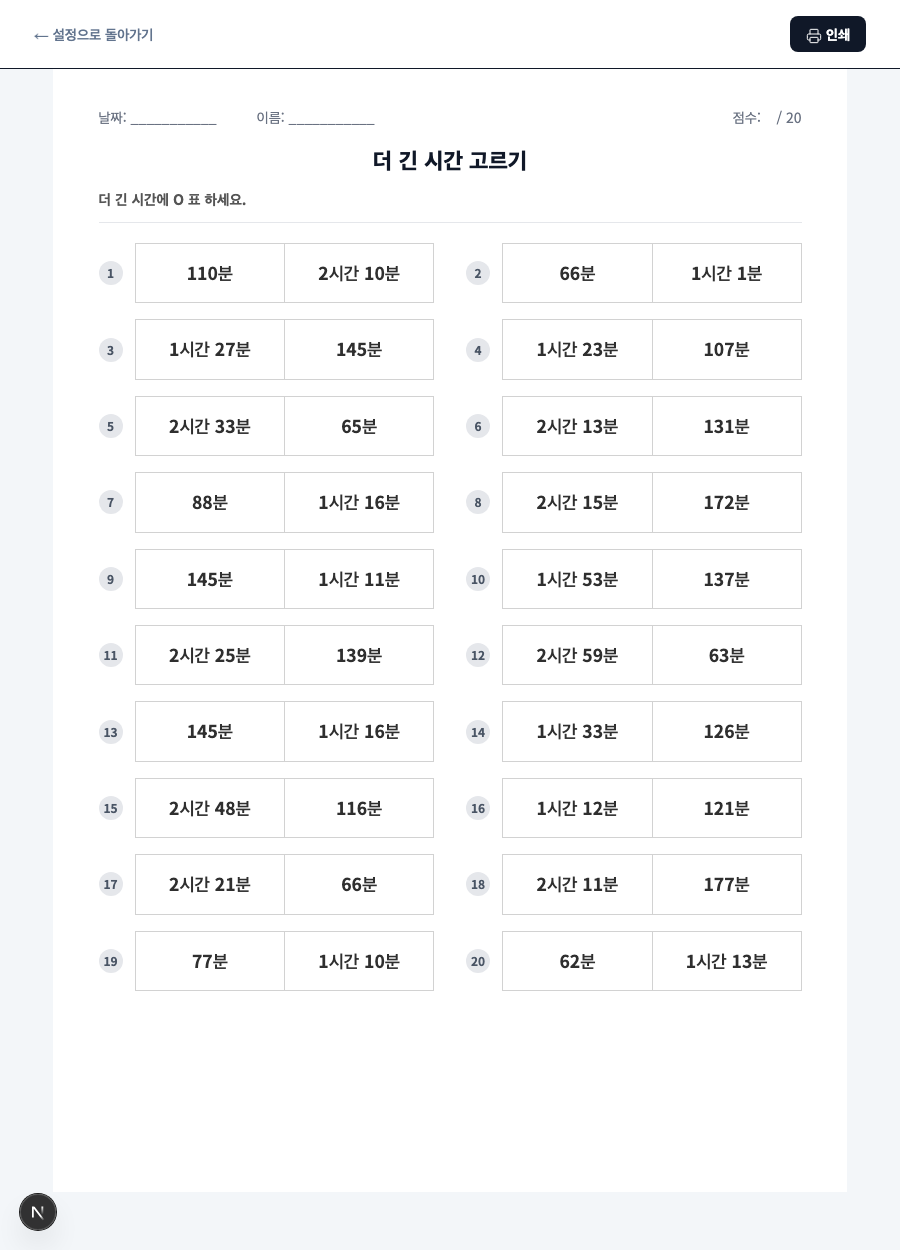
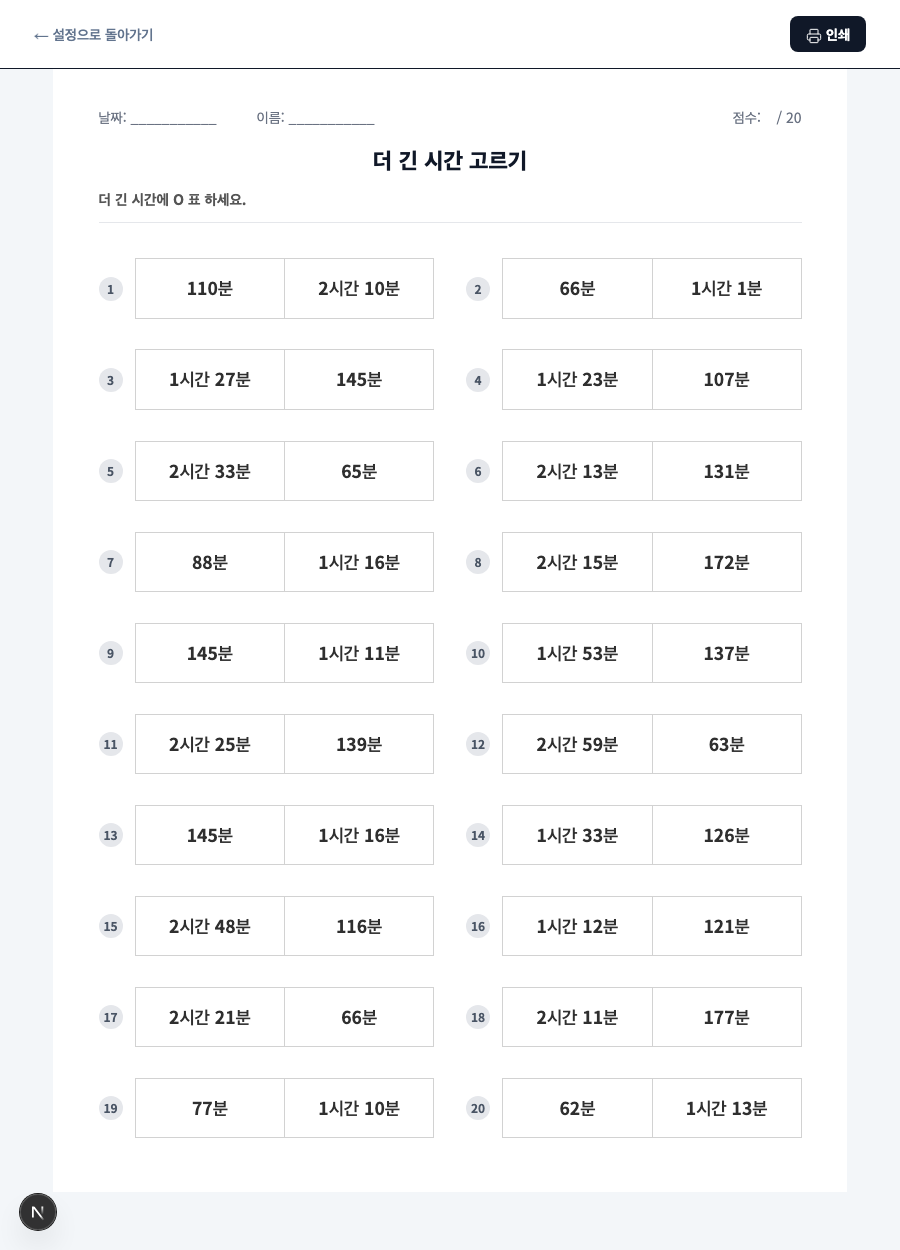
[AF-1051] 더 긴 시간 고르기 — 문항 간격을 쪽 높이에 맞춤
- 단위 바꾸기와 같이 줄 높이를 남은 높이에 고르게 나눠 문제지 아래가 비지 않게 함

diff --git a/src/app/time/preview/page.tsx b/src/app/time/preview/page.tsx
@@ -110,6 +110,7 @@ function TimeSheet({
   totalSheets: number;
 }) {
   const copy = SHEET_COPY[mode];
+  const compareRows = Math.max(Math.ceil(problems.length / 2), 1);
 
   return (
     <div className="sheet bg-white mx-auto flex flex-col" style={{ width: "210mm", minHeight: "297mm", boxSizing: "border-box", padding: "10mm 12mm", fontFamily: "'Noto Sans KR', 'Apple SD Gothic Neo', sans-serif" }}>
@@ -131,7 +132,18 @@ function TimeSheet({
       {mode === "time_convert" ? (
         <ConvertColumns problems={problems as TimeConvertProblem[]} />
       ) : (
-        <div style={{ display: "grid", gridTemplateColumns: "repeat(2, minmax(0, 1fr))", rowGap: 16, columnGap: 32, color: "#2f2f2f" }}>
+        <div
+          style={{
+            flex: 1,
+            display: "grid",
+            gridTemplateColumns: "repeat(2, minmax(0, 1fr))",
+            // 단위 바꾸기와 같이 줄 높이를 남은 높이에 고르게 나눠 아래가 비지 않게 한다.
+            gridTemplateRows: `repeat(${compareRows}, minmax(3.6rem, 1fr))`,
+            alignItems: "center",
+            columnGap: 32,
+            color: "#2f2f2f",
+          }}
+        >
           {(problems as TimeCompareProblem[]).map((p, i) => (
             <CompareRow key={`m-${p.left.minutes}-${p.right.minutes}`} problem={p} number={i + 1} />
           ))}

diff --git a/tests/time-menu-and-pages.test.js b/tests/time-menu-and-pages.test.js
@@ -54,3 +54,10 @@ test('time preview: convert sheet splits types into left/right columns and sprea
   assert.match(source, /gridTemplateRows: `repeat\(\$\{rows\}, minmax\(3\.2rem, 1fr\)\)`/);
   assert.match(source, /className="sheet bg-white mx-auto flex flex-col"/);
 });
+
+test('time preview: compare sheet also spreads rows over the page height', () => {
+  const source = read('src/app/time/preview/page.tsx');
+
+  assert.match(source, /const compareRows = Math\.max\(Math\.ceil\(problems\.length \/ 2\), 1\)/);
+  assert.match(source, /gridTemplateRows: `repeat\(\$\{compareRows\}, minmax\(3\.6rem, 1fr\)\)`/);
+});
